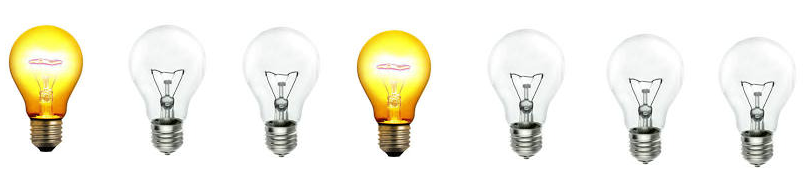
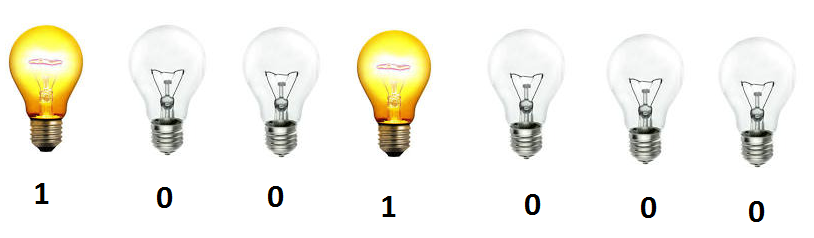
finishing

diff --git a/sessions/First.MD b/sessions/First.MD
@@ -83,9 +83,12 @@ Everybody gave some interesting answers.
     * Why did we learn binary
         * What you see on computer (including this text) , web sites, videos , pictures cannot be understand by basic computers. It is the Software ( also called Programs, Applications) making the things easy for you. The basic computer understands only binary meaning 1 or 0. How come then Software is the one understands them. How come they understand? For that you need to under stand standards. How many alphabets we have including capital letters? 52 (26*2) and then some mathematical symbols (+, - , %, * etc.,) , and some punctuations and all put together they are less than 128. They developed some kind of code words like __A__ is __65__ , __B__ is __66__ , __a__ is __97__ where every computer interprets the same way and this is called [ASCII](https://msdn.microsoft.com/en-us/library/60ecse8t(v=vs.80).aspx) which is __A__ merican __S__ tandard __C__ code for __I__ nformation __I__ nterchange. Now for computer everything is numbers. For example lets say __HELLO__ which in number becomes (72 69 76 76 79) [ASCII] (https://msdn.microsoft.com/en-us/library/60ecse8t(v=vs.80).aspx)
         Now convert __HELLO__ which becomes 72 69 76 76 79 and then convert this in to binary (you learned above to convert) which becomes __1001000__ __1000101__ __1001100__ __1001100__ __1001111__
-        Still how these 1/0 will be understood by computer? Lets say I have given 8 electric bulbs and ask you to put next to each other. Lets say they are all plugged in and you can turn them __on__ or __off__ with a switch. If __OFF__ say the number is __0__ and __ON__ it is __1__. Now in order to represent __76__ you can make the bulbs 
+        Still how these 1/0 will be understood by computer? Lets say I have given 8 electric bulbs and ask you to put next to each other. Lets say they are all plugged in and you can turn them __on__ or __off__ with a switch. If __OFF__ say the number is __0__ and __ON__ it is __1__. Now in order to represent __72__ you can make the bulbs 
 
         ![72](https://github.com/sairamaj/programmingclass/blob/master/images/72.png)
+        Even though computers does not have electric bulbs but have similar concept. In fact computer has billions of __transistors__ which has similar effect.
+
+        
  
 
 
